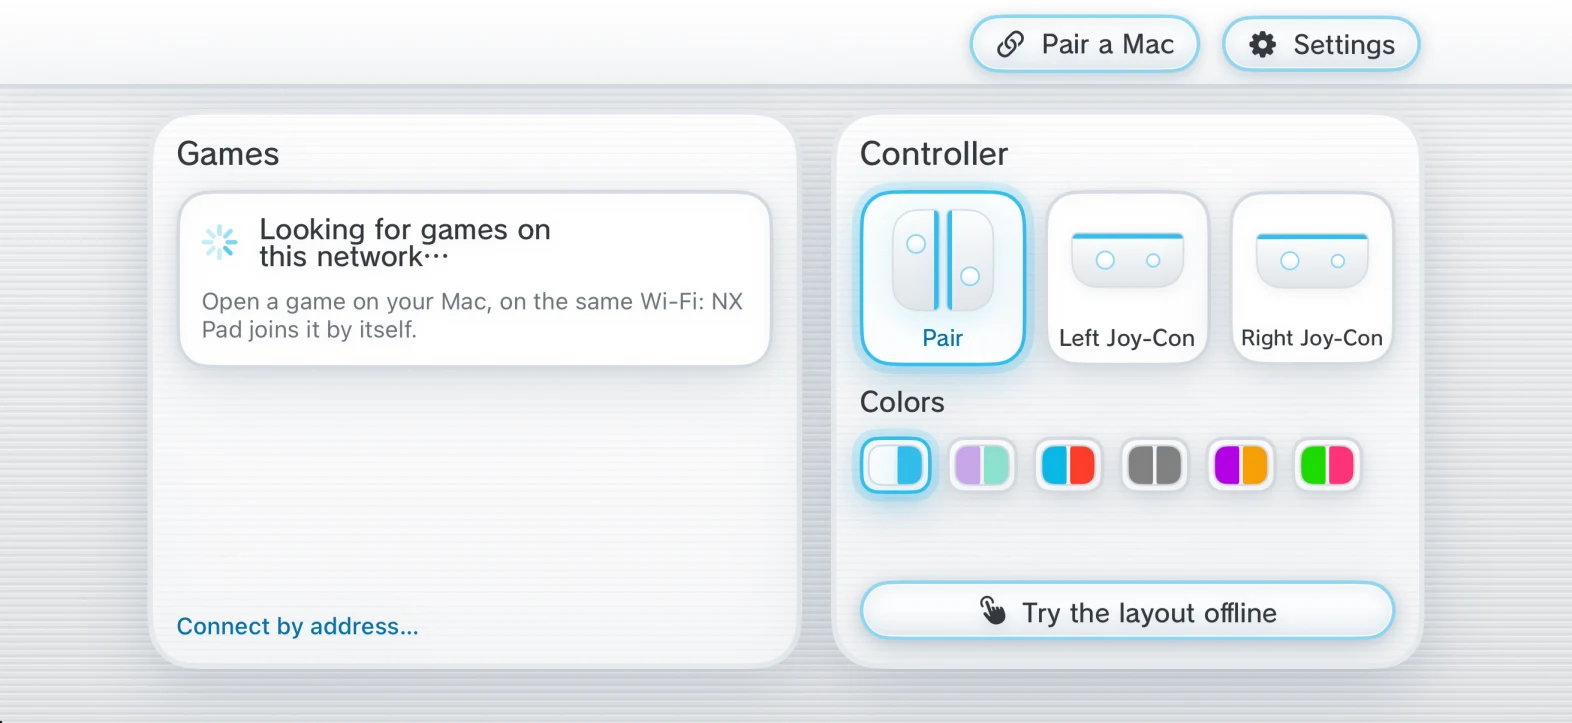
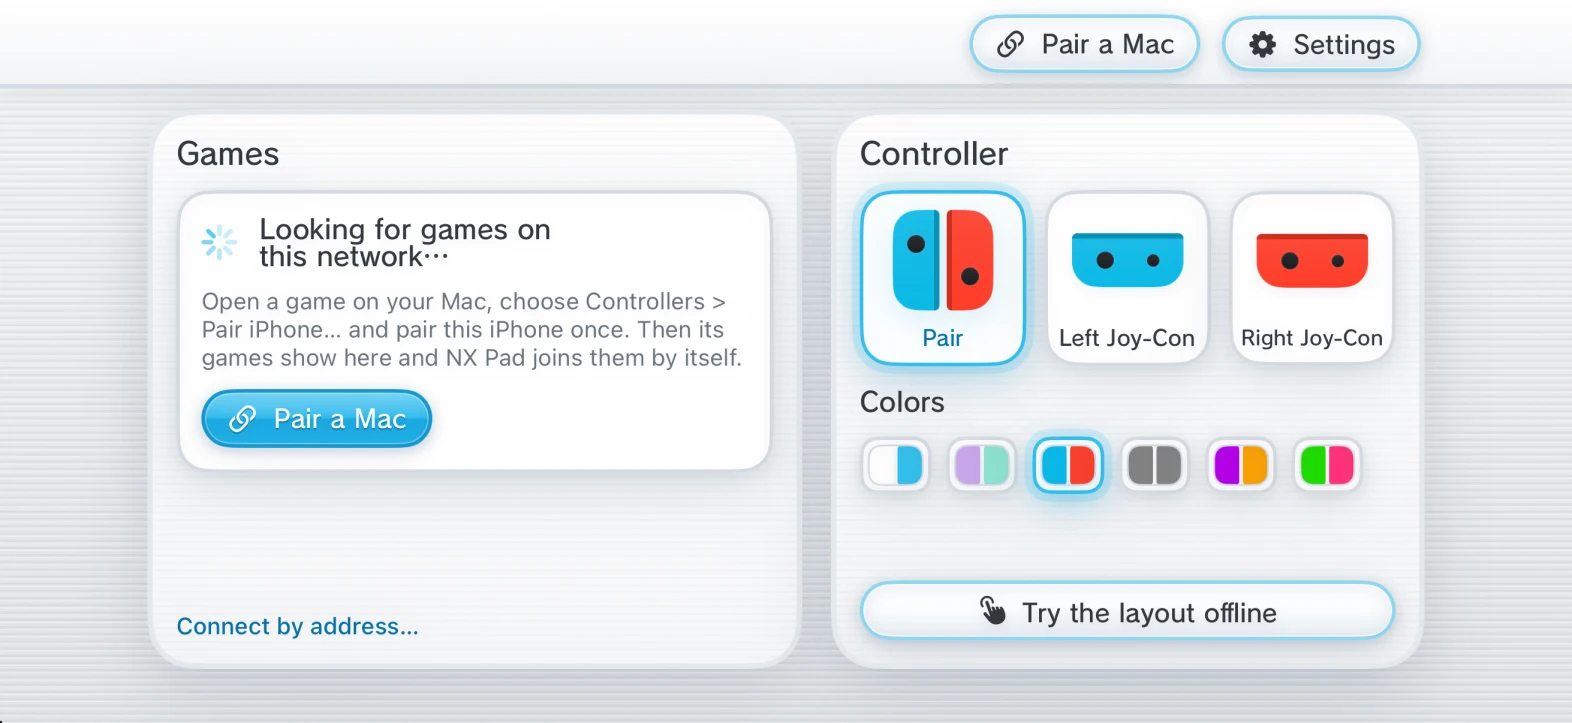
docs/pages: show neon NX Pad controls with hardware clearance
Use original blue and red captures at Size 100% and fit both device displays around their camera cutouts.

diff --git a/index.html b/index.html
@@ -45,11 +45,11 @@
             <img class="device-shell" src="assets/macbook-frame.svg" width="2048" height="1237" alt="">
           </a>
           <a class="controller" href="assets/pad-controller.webp">
-            <img class="device-screen" src="assets/pad-controller.webp" width="1310" height="603" alt="NX Pad shows Kirby and the Forgotten Land connected as Player 1 with a pair of Joy-Cons">
+            <img class="device-screen" src="assets/pad-controller.webp" width="1310" height="603" alt="NX Pad connected as Player 1 with neon blue and red Joy-Cons at 100% control size">
             <img class="device-shell" src="assets/18pro-black.svg" width="1406" height="2822" alt="">
           </a>
         </div>
-        <figcaption><em>Kirby and the Forgotten Land</em> on Mac, with NX Pad connected as Player&nbsp;1 in the iPhone simulator.</figcaption>
+        <figcaption><em>Kirby and the Forgotten Land</em> on Mac, with NX Pad connected as Player&nbsp;1 in the iPhone simulator at 100% control size.</figcaption>
       </figure>
     </section>
 
@@ -118,7 +118,7 @@ venv/bin/python3 -m pip install lz4 "capstone&gt;=5,&lt;6" fonttools nsz zbic "b
           <p>Use your iPhone as a controller</p>
         </header>
         <figure class="walkthrough pad-screen">
-          <a href="assets/pad-setup.webp"><img src="assets/pad-setup.webp" width="1572" height="723" loading="lazy" alt="NX Pad game browser showing Pair a Mac and the Pair, Left Joy-Con and Right Joy-Con modes"></a>
+          <a href="assets/pad-setup.webp"><img src="assets/pad-setup.webp" width="1572" height="723" loading="lazy" alt="NX Pad game browser showing Pair a Mac, the controller modes and the selected neon blue and red theme"></a>
         </figure>
         <ol class="steps">
           <li><strong>Install.</strong> Unzip the source. Generate the project with XcodeGen, sign it with your team, and run it on your iPhone in Xcode.</li>

diff --git a/styles.css b/styles.css
@@ -139,16 +139,24 @@ h3 { font-size: 1.04rem; font-weight: 650; }
   height: 85.38%;
   border-radius: 1.15%;
   clip-path: polygon(0 0, 43.86% 0, 43.86% 3.04%, 56.15% 3.04%, 56.15% 0, 100% 0, 100% 100%, 0 100%);
-  object-fit: cover;
+  background: #111417;
+  object-fit: contain;
 }
 .game-monitor .device-shell { inset: 0; width: 100%; }
+.controller::before {
+  position: absolute;
+  inset: 5.36% 2.62%;
+  border-radius: 11% / 20%;
+  background: #0b0d0f;
+  content: "";
+}
 .controller .device-screen {
   top: 5.36%;
-  left: 2.62%;
-  width: 94.76%;
+  left: 9.6%;
+  width: 87.78%;
   height: 89.27%;
-  border-radius: 11% / 20%;
-  object-fit: cover;
+  border-radius: 7% / 14%;
+  object-fit: contain;
 }
 .controller .device-shell {
   top: 50%;
